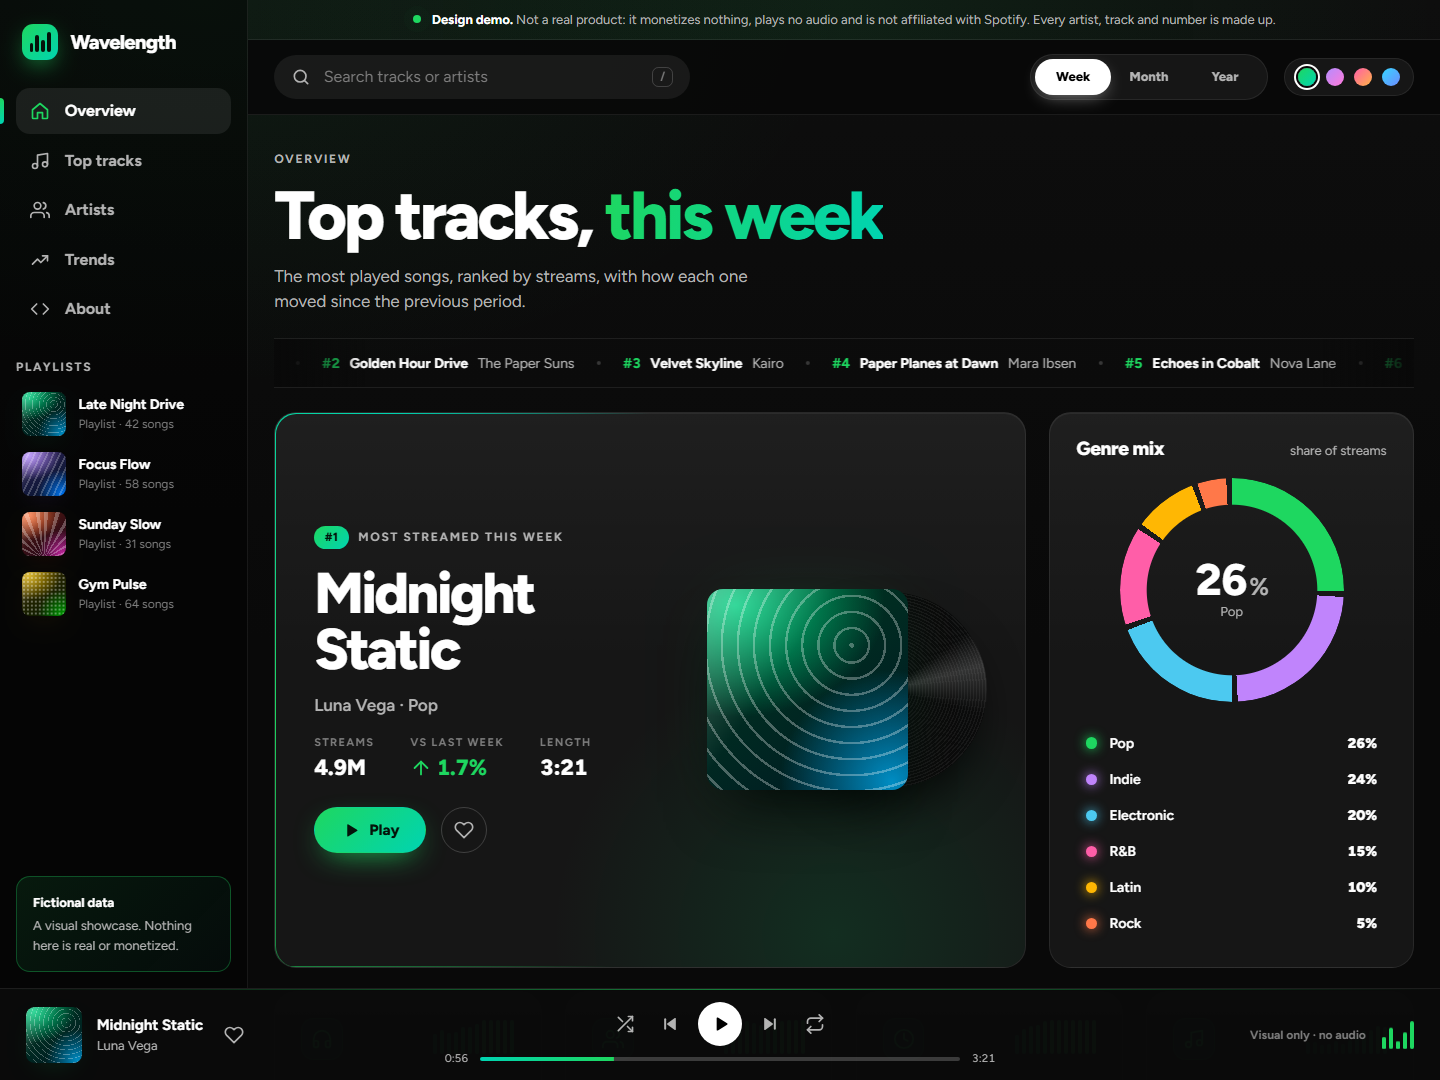
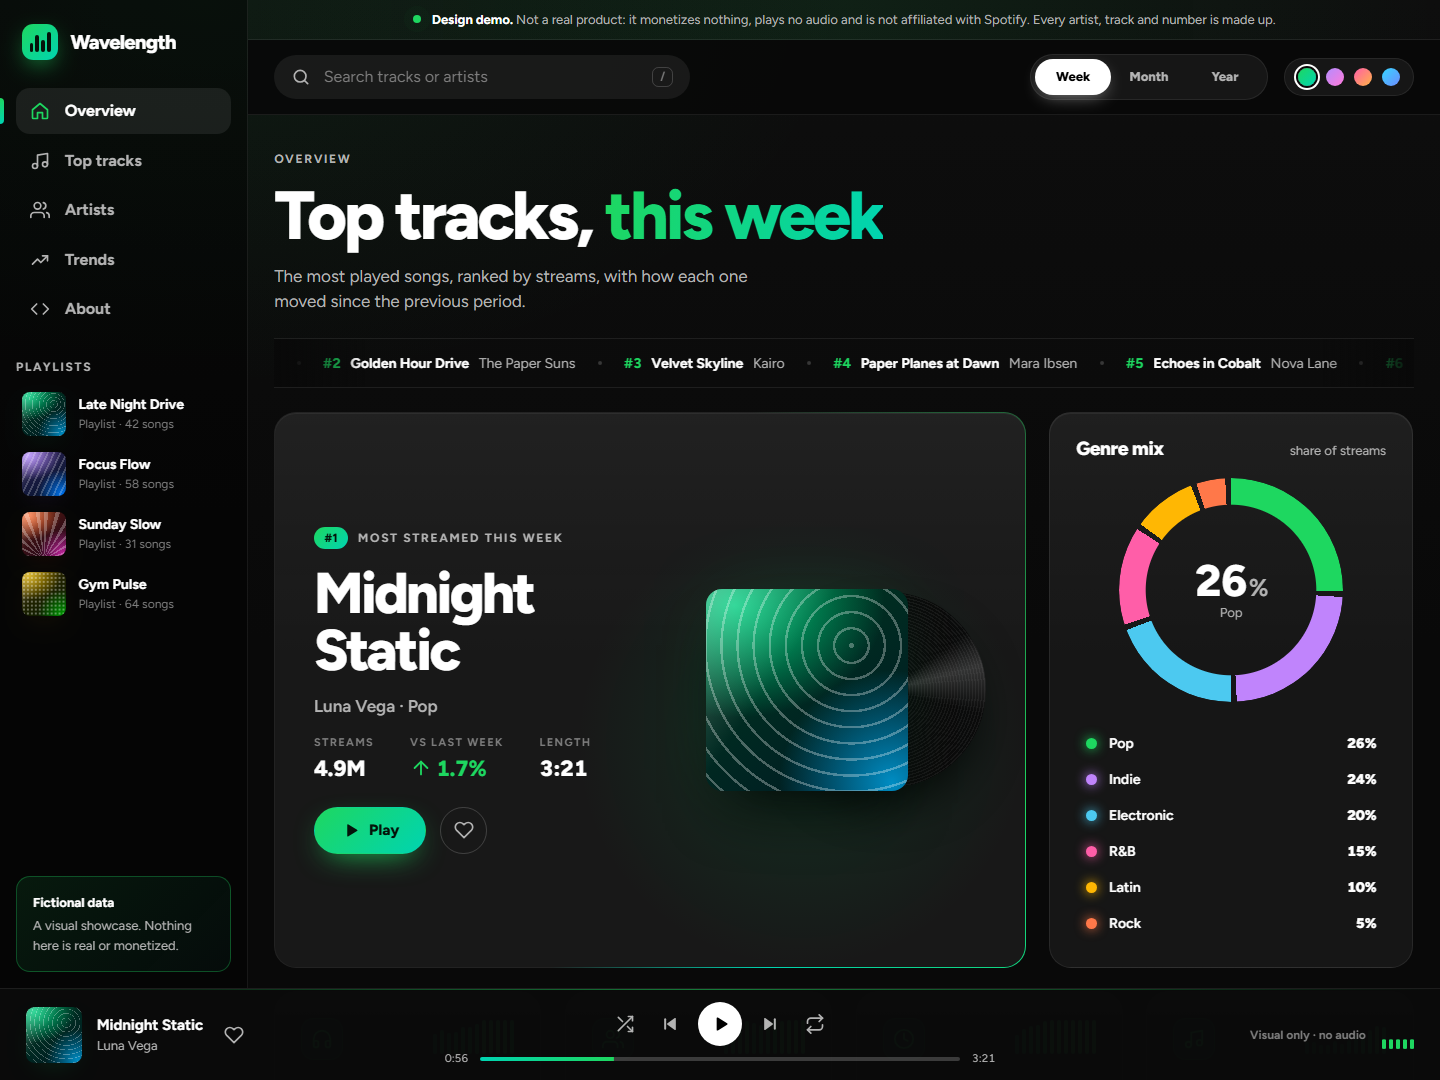
Fix scroll jank on the overview: drop scroll-linked reveals and idle layers
- Remove scroll-driven reveal animations (animation-timeline: view()); cards
  now just appear, so nothing is tied to the scroll position
- Hero gradient border painted with stacked backgrounds instead of a
  rotating masked pseudo-element; no hover spin
- Hero no longer clips with overflow: hidden; glow stays inside the card
- Drop transform-style: preserve-3d on the tilt stage
- Equalizer bars, vinyl and artist rings only animate while playing or hovered
  (no paused animations keeping compositor layers alive)
- Remove hover border transition on cards, add contain: paint
- Hero tilt writes once per frame and ignores pointer moves while scrolling
- Marquee track promoted with will-change: transform
- Update README and About to match

diff --git a/src/components/Hero.tsx b/src/components/Hero.tsx
@@ -1,6 +1,6 @@
 "use client";
 
-import { useRef, type PointerEvent } from "react";
+import { useEffect, useRef, type PointerEvent } from "react";
 import type { RankedTrack } from "@/data/types";
 import { cssVars } from "@/lib/css";
 import { compact, duration } from "@/lib/format";
@@ -22,19 +22,38 @@ export function Hero({ track, periodLabel, previousLabel, isCurrent, playing, on
   const up = growth >= 0;
   const showPause = isCurrent && playing;
 
-  // 3D tilt: the pointer position becomes two variables, the transform is in hero.css
-  function tilt(event: PointerEvent<HTMLElement>) {
-    const stage = stageRef.current;
-    if (!stage) return;
-    const box = event.currentTarget.getBoundingClientRect();
-    stage.style.setProperty("--rx", String(((event.clientX - box.left) / box.width - 0.5) * 2));
-    stage.style.setProperty("--ry", String(((event.clientY - box.top) / box.height - 0.5) * 2));
+  // Tilt: the pointer position becomes two variables, the transform is in hero.css.
+  // Writes are batched to one per frame so a fast mouse never causes extra style work.
+  const frame = useRef(0);
+
+  function setTilt(x: number, y: number) {
+    window.cancelAnimationFrame(frame.current);
+    frame.current = window.requestAnimationFrame(() => {
+      stageRef.current?.style.setProperty("--rx", String(x));
+      stageRef.current?.style.setProperty("--ry", String(y));
+    });
   }
 
-  function untilt() {
-    stageRef.current?.style.setProperty("--rx", "0");
-    stageRef.current?.style.setProperty("--ry", "0");
+  // While the page scrolls under a resting cursor the browser keeps firing pointer
+  // moves; those are ignored so scrolling never pays for the tilt.
+  const lastScroll = useRef(0);
+
+  function tilt(event: PointerEvent<HTMLElement>) {
+    if (performance.now() - lastScroll.current < 200) return;
+    const box = event.currentTarget.getBoundingClientRect();
+    setTilt(((event.clientX - box.left) / box.width - 0.5) * 2, ((event.clientY - box.top) / box.height - 0.5) * 2);
   }
+
+  useEffect(() => {
+    const onScroll = () => {
+      lastScroll.current = performance.now();
+    };
+    window.addEventListener("scroll", onScroll, { passive: true });
+    return () => {
+      window.removeEventListener("scroll", onScroll);
+      window.cancelAnimationFrame(frame.current);
+    };
+  }, []);
 
   return (
     <section
@@ -42,7 +61,7 @@ export function Hero({ track, periodLabel, previousLabel, isCurrent, playing, on
       style={cssVars({ "--d": 2, "--h1": track.h1, "--h2": track.h2 })}
       aria-label="Number one track"
       onPointerMove={tilt}
-      onPointerLeave={untilt}
+      onPointerLeave={() => setTilt(0, 0)}
     >
       <div className="hero__glow" aria-hidden="true" />
 

diff --git a/src/styles/components/card.css b/src/styles/components/card.css
@@ -1,8 +1,9 @@
 @layer components {
 /*
- * Card: an opaque surface with a hairline border. No backdrop-filter and no
- * pointer-driven effects: a dozen blurred layers repainting on every scroll
- * frame is what made the first version feel heavy.
+ * Card: an opaque surface with a hairline border. No backdrop-filter, no
+ * hover effects and no pointer-driven effects: a card never repaints on its
+ * own while the page scrolls under the cursor. `contain: paint` keeps whatever
+ * does change inside a card from invalidating its neighbours.
  */
 
 .card {
@@ -14,11 +15,7 @@
     linear-gradient(180deg, rgb(255 255 255 / 0.05), rgb(255 255 255 / 0.01) 45%),
     var(--surface);
   box-shadow: inset 0 1px 0 rgb(255 255 255 / 0.06);
-  transition: border-color 0.3s;
-}
-
-.card:hover {
-  border-color: var(--line-strong);
+  contain: paint;
 }
 
 .card__head {
@@ -35,26 +32,16 @@
 }
 
 /*
- * Gradient border: a masked conic-gradient whose angle is a typed property.
- * It is static at rest and only spins while the card is hovered, so an idle
- * page has nothing to repaint.
+ * Gradient border without masks: the card surface is painted on the padding
+ * box and a conic gradient shows through the transparent border. Static, so
+ * there is nothing to animate or re-rasterize while scrolling.
  */
-.card--glow::before {
-  content: "";
-  position: absolute;
-  inset: -1px;
-  z-index: 3;
-  padding: 1.5px;
-  border-radius: inherit;
-  pointer-events: none;
-  background: conic-gradient(from var(--angle), transparent 0% 52%, var(--accent) 74%, var(--accent-2) 88%, transparent 100%);
-  -webkit-mask: linear-gradient(#000 0 0) content-box, linear-gradient(#000 0 0);
-  -webkit-mask-composite: xor;
-  mask: linear-gradient(#000 0 0) content-box exclude, linear-gradient(#000 0 0);
-}
-
-.card--glow:hover::before {
-  animation: spin-angle 6s linear infinite;
+.card--glow {
+  border: 1.5px solid transparent;
+  background:
+    linear-gradient(180deg, rgb(255 255 255 / 0.05), rgb(255 255 255 / 0.01) 45%) padding-box,
+    linear-gradient(#151515, #151515) padding-box,
+    conic-gradient(from 200deg, rgb(255 255 255 / 0.1) 0% 50%, var(--accent) 74%, var(--accent-2) 88%, rgb(255 255 255 / 0.1) 100%) border-box;
 }
 
 .chip {

diff --git a/src/styles/components/hero.css b/src/styles/components/hero.css
@@ -9,18 +9,19 @@
   gap: clamp(1rem, 0.5rem + 2vw, 2.5rem);
   min-height: 23rem;
   padding: clamp(1.25rem, 1rem + 1.6vw, 2.5rem);
-  overflow: hidden;
   isolation: isolate;
 }
 
+/* kept inside the card so the hero needs no overflow clip (a rounded clip over layers is expensive to scroll) */
 .hero__glow {
   position: absolute;
-  right: -12%;
-  bottom: -45%;
+  right: 0;
+  bottom: 0;
   z-index: -1;
-  width: 75%;
+  width: min(62%, 28rem);
   aspect-ratio: 1;
   border-radius: 50%;
+  pointer-events: none;
   background: radial-gradient(closest-side, oklch(62% 0.21 var(--h1, 160) / 0.16), transparent);
 }
 
@@ -101,7 +102,6 @@
   display: grid;
   width: min(100%, 22rem);
   aspect-ratio: 1.25;
-  transform-style: preserve-3d;
   transform: rotateX(calc(var(--ry) * -9deg)) rotateY(calc(var(--rx) * 12deg));
   transition: transform 0.3s ease-out;
 }
@@ -132,6 +132,10 @@
     conic-gradient(from 25deg, transparent 0% 8%, rgb(255 255 255 / 0.17) 14%, transparent 22% 50%, rgb(255 255 255 / 0.12) 64%, transparent 72%),
     radial-gradient(circle closest-side, #0a0a0a 0 2.5%, oklch(66% 0.2 var(--h1, 160)) 3% 17%, #0a0a0a 17.5% 19.5%, transparent 20%),
     repeating-radial-gradient(circle closest-side, #181818 0 1.2px, #0b0b0b 1.2px 3px);
+}
+
+/* the spin only exists for the track that is loaded in the player, and only runs while it plays */
+.hero.is-current .vinyl {
   animation: spin 7s linear infinite paused;
 }
 

diff --git a/src/styles/components/controls.css b/src/styles/components/controls.css
@@ -355,18 +355,18 @@
   background: var(--accent);
   transform-origin: bottom;
   scale: 1 0.35;
-  animation: eq 1s ease-in-out infinite alternate paused;
 }
 
-.eq i:nth-child(1) { animation-duration: 0.9s;  animation-delay: -0.3s; }
-.eq i:nth-child(2) { animation-duration: 1.15s; animation-delay: -0.7s; }
-.eq i:nth-child(3) { animation-duration: 0.8s;  animation-delay: -0.1s; }
-.eq i:nth-child(4) { animation-duration: 1.05s; animation-delay: -0.5s; }
-.eq i:nth-child(5) { animation-duration: 0.95s; animation-delay: -0.9s; }
-
+/* the bars only animate while something is playing: no idle animations (and layers) on the ~55 bars in the page */
 .is-playing .eq i {
-  animation-play-state: running;
+  animation: eq 1s ease-in-out infinite alternate;
 }
+
+.is-playing .eq i:nth-child(1) { animation-duration: 0.9s;  animation-delay: -0.3s; }
+.is-playing .eq i:nth-child(2) { animation-duration: 1.15s; animation-delay: -0.7s; }
+.is-playing .eq i:nth-child(3) { animation-duration: 0.8s;  animation-delay: -0.1s; }
+.is-playing .eq i:nth-child(4) { animation-duration: 1.05s; animation-delay: -0.5s; }
+.is-playing .eq i:nth-child(5) { animation-duration: 0.95s; animation-delay: -0.9s; }
 
 .eq--lg {
   height: 1.75rem;

diff --git a/src/styles/motion.css b/src/styles/motion.css
@@ -126,14 +126,6 @@
     }
   }
 
-  @keyframes reveal {
-    from {
-      opacity: 0;
-      translate: 0 56px;
-      scale: 0.97;
-    }
-  }
-
   /* ================= entrance choreography ================= */
 
   /* `backwards` (not `both`): once finished, hover transitions on the same
@@ -173,15 +165,6 @@
     animation-delay: calc(var(--i) * 60ms + 250ms);
   }
 
-  /* cards that live below the fold fade in as they scroll into view (no JS) */
-  @supports (animation-timeline: view()) {
-    .reveal {
-      animation: reveal linear both;
-      animation-timeline: view();
-      animation-range: entry 4% entry 38%;
-    }
-  }
-
   /* ================= view transitions: rows glide to their new rank ================= */
 
   /* Rows only get a view-transition-name while a transition is running (the
@@ -217,7 +200,6 @@
       transition-duration: 0.001ms !important;
     }
 
-    .reveal,
     .ticker__track {
       animation: none !important;
     }

diff --git a/src/components/About.tsx b/src/components/About.tsx
@@ -10,18 +10,17 @@ const STACK = [
   "Container queries",
   ":has() selectors",
   "View transitions",
-  "Scroll-driven reveals",
   "Conic and radial gradients",
   "color-mix() and oklch()",
   "CSS counters",
-  "Masks and blend modes",
+  "CSS masks",
   "Zero UI dependencies",
 ];
 
 /** Server component: static content, no client JavaScript */
 export function About() {
   return (
-    <section className="card about reveal" id="about" aria-labelledby="about-title">
+    <section className="card about" id="about" aria-labelledby="about-title">
       <div className="about__copy">
         <p className="eyebrow">About this project</p>
         <h2 id="about-title">A showcase, not a product.</h2>

diff --git a/src/components/TrackList.tsx b/src/components/TrackList.tsx
@@ -43,7 +43,7 @@ export function TrackList({ tracks, periodLabel, currentId, playing, query, onSe
   const maxStreams = tracks[0].streams;
 
   return (
-    <article className="card tracks reveal" id="tracks" aria-labelledby="tracks-title">
+    <article className="card tracks" id="tracks" aria-labelledby="tracks-title">
       <header className="card__head">
         <h2 id="tracks-title">Top 10</h2>
         <span className="muted">Ranked by streams {periodLabel}</span>

diff --git a/src/components/StreamsChart.tsx b/src/components/StreamsChart.tsx
@@ -13,7 +13,7 @@ export function StreamsChart({ rows, peak, periodKey }: StreamsChartProps) {
   const axis = [rows[0], rows[Math.floor(rows.length / 2)], rows[rows.length - 1]];
 
   return (
-    <article className="card bars reveal" id="trends" aria-labelledby="bars-title">
+    <article className="card bars" id="trends" aria-labelledby="bars-title">
       <header className="card__head">
         <div>
           <h2 id="bars-title">Streams over time</h2>

diff --git a/src/components/Artists.tsx b/src/components/Artists.tsx
@@ -10,7 +10,7 @@ interface ArtistsProps {
 
 export function Artists({ artists, periodLabel, periodKey }: ArtistsProps) {
   return (
-    <article className="card artists reveal" id="artists" aria-labelledby="artists-title">
+    <article className="card artists" id="artists" aria-labelledby="artists-title">
       <header className="card__head">
         <h2 id="artists-title">Top artists</h2>
         <span className="muted">{periodLabel}</span>

diff --git a/src/components/Heatmap.tsx b/src/components/Heatmap.tsx
@@ -15,7 +15,7 @@ export function Heatmap({ levels, periodKey }: HeatmapProps) {
   const busiest = levels.indexOf(Math.max(...levels));
 
   return (
-    <article className="card heat reveal" aria-labelledby="heat-title">
+    <article className="card heat" aria-labelledby="heat-title">
       <header className="card__head">
         <h2 id="heat-title">When you listen</h2>
         <span className="muted">weekday × hour</span>

diff --git a/src/styles/components/artists.css b/src/styles/components/artists.css
@@ -45,13 +45,13 @@
     opacity: 0;
     scale: 0.85;
     transition: opacity 0.3s, scale 0.5s var(--ease-spring);
-    animation: spin-angle 4s linear infinite paused;
   }
 
+  /* the spinning ring only exists while the row is hovered */
   .artist:hover .artist__avatar::before {
     opacity: 1;
     scale: 1;
-    animation-play-state: running;
+    animation: spin-angle 4s linear infinite;
   }
 
   .artist__meta {

diff --git a/src/styles/components/ticker.css b/src/styles/components/ticker.css
@@ -33,6 +33,7 @@
     display: flex;
     width: max-content;
     animation: marquee 70s linear infinite;
+    will-change: transform;
   }
 
   .ticker:hover .ticker__track {
